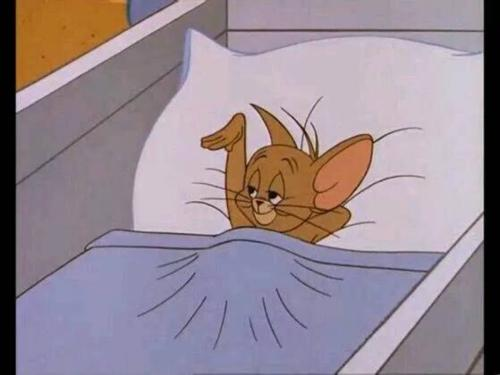
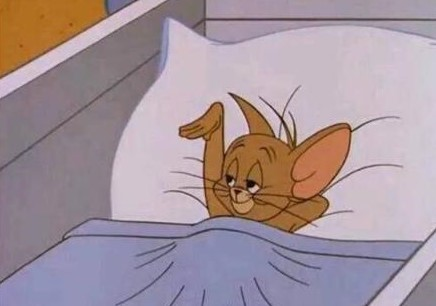
Site updated: 2019-03-28 17:56:50

diff --git a/2018/11/03/我的第一篇博客文章/index.html b/2018/11/03/我的第一篇博客文章/index.html
@@ -16,10 +16,12 @@
 <meta property="og:site_name" content="Blog">
 <meta property="og:description" content="我的第一篇博客文章大家好，我的个人博客终于搭建完成啦！用的是hexo搭建的博客框架，还是挺方便的，这几天应该会把搭建的流程单独写一篇博客，以后会不定期的更新一些。。。？？？（随便更新。。） 额。。。md格式的文档还不太会用，我先去学习一哈。 :]">
 <meta property="og:locale" content="default">
-<meta property="og:updated_time" content="2019-03-28T09:32:17.820Z">
+<meta property="og:image" content="http://yoursite.com/images/byebye.jpg">
+<meta property="og:updated_time" content="2019-03-28T09:53:40.942Z">
 <meta name="twitter:card" content="summary">
 <meta name="twitter:title" content="我的第一篇博客文章">
 <meta name="twitter:description" content="我的第一篇博客文章大家好，我的个人博客终于搭建完成啦！用的是hexo搭建的博客框架，还是挺方便的，这几天应该会把搭建的流程单独写一篇博客，以后会不定期的更新一些。。。？？？（随便更新。。） 额。。。md格式的文档还不太会用，我先去学习一哈。 :]">
+<meta name="twitter:image" content="http://yoursite.com/images/byebye.jpg">
   
     <link rel="alternative" href="/atom.xml" title="Blog" type="application/atom+xml">
   
@@ -162,6 +164,7 @@
         <h2 id="我的第一篇博客文章"><a href="#我的第一篇博客文章" class="headerlink" title="我的第一篇博客文章"></a>我的第一篇博客文章</h2><p>大家好，我的个人博客终于搭建完成啦！用的是hexo搭建的博客框架，还是挺方便的，这几天应该会把搭建的流程单独写一篇博客，以后会不定期的更新一些。。。？？？（随便更新。。）</p>
 <p>额。。。md格式的文档还不太会用，我先去学习一哈。</p>
 <p>:]</p>
+<p><img src="/images/byebye.jpg" alt="拜拜"></p>
 
       
 

diff --git a/index.html b/index.html
@@ -160,6 +160,7 @@
         <h2 id="我的第一篇博客文章"><a href="#我的第一篇博客文章" class="headerlink" title="我的第一篇博客文章"></a>我的第一篇博客文章</h2><p>大家好，我的个人博客终于搭建完成啦！用的是hexo搭建的博客框架，还是挺方便的，这几天应该会把搭建的流程单独写一篇博客，以后会不定期的更新一些。。。？？？（随便更新。。）</p>
 <p>额。。。md格式的文档还不太会用，我先去学习一哈。</p>
 <p>:]</p>
+<p><img src="/images/byebye.jpg" alt="拜拜"></p>
 
       
 
